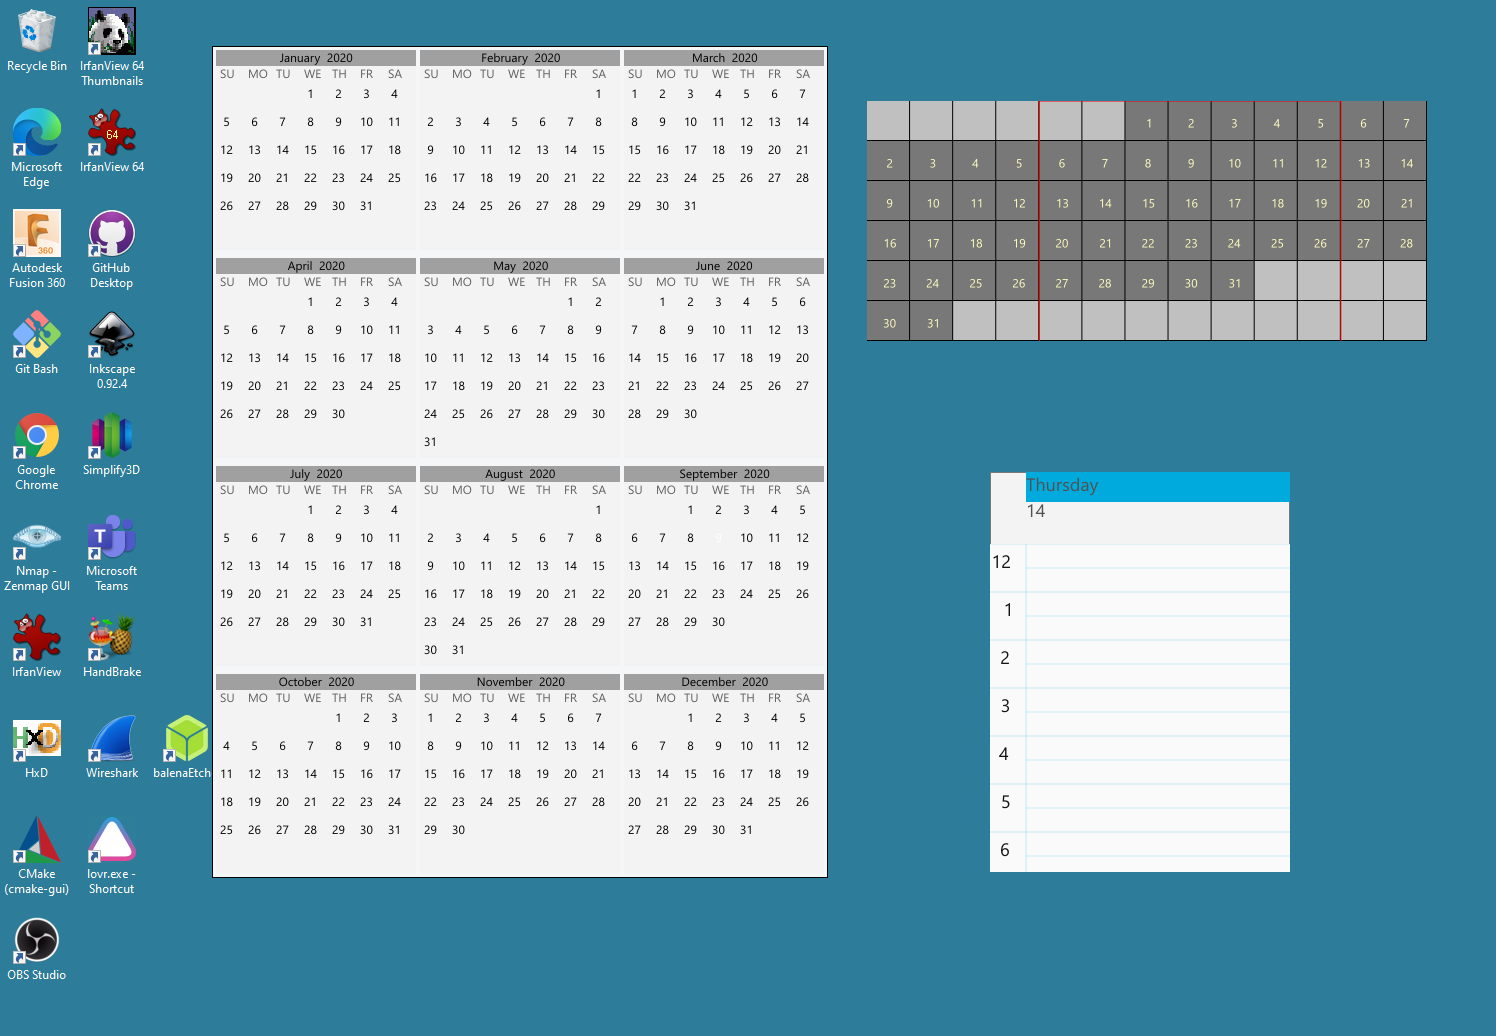
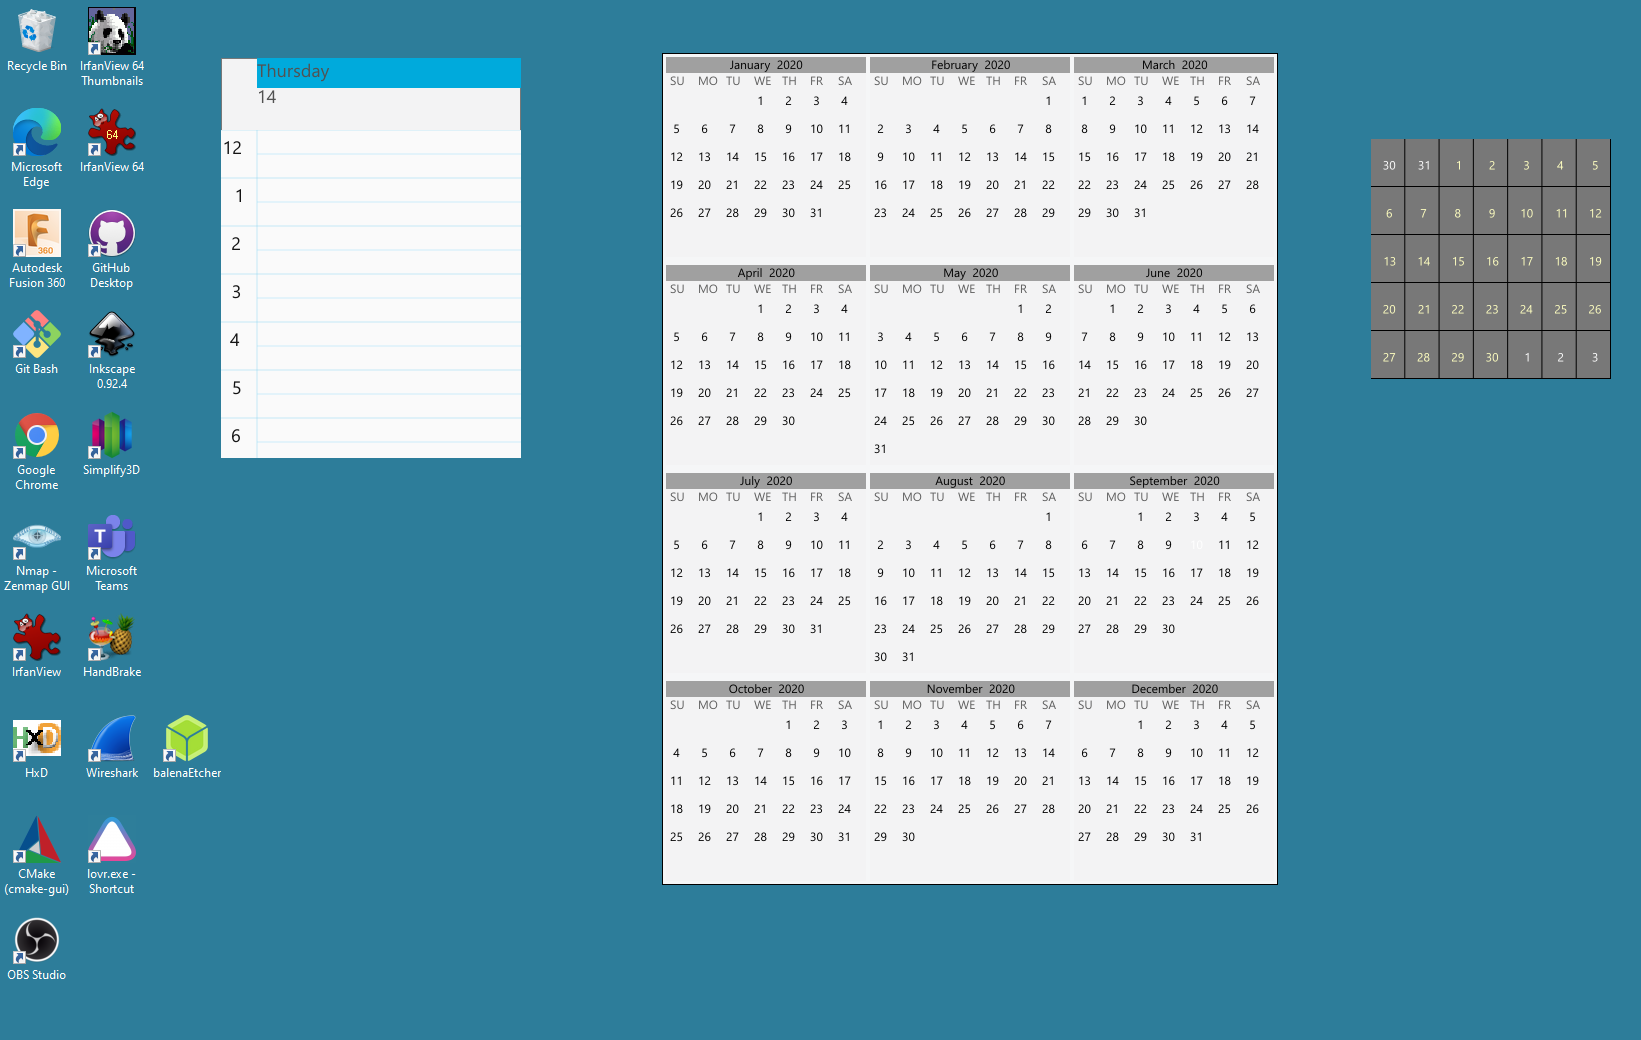
make sliding month calendar

diff --git a/projects/calendar/perpetualcalendar.h b/projects/calendar/perpetualcalendar.h
@@ -5,9 +5,16 @@
 
 class PerpetualCalendar : public Graphic
 {
+	Calendar::USACalendar fPreviousCalendar;
 	Calendar::USACalendar fCalendar;
+	Calendar::USACalendar fNextCalendar;
+
 	int fMonth;
-	int fDayCode;	// 0 - x
+	int fNextMonth;
+	int fPreviousMonth;
+
+
+
 
 	int fDayCells[6][13]= {
 			{ 0, 0, 0, 0, 0, 0, 1, 2, 3, 4, 5, 6, 7},
@@ -25,27 +32,38 @@ class PerpetualCalendar : public Graphic
 public:
 	PerpetualCalendar(int year, int month, double w, double h)
 		: Graphic(0,0,w,h),
-		fCalendar(year)
+		fCalendar(year),
+		fPreviousCalendar(year),
+		fNextCalendar(year)
 	{
 		cellWidth = w / 13;
 		cellHeight = h / 6;
 
-		setMonth(month);
+		setDate(year, month);
 	}
 
 	// set month [1-12]
-	void setMonth(int month)
+	void setDate(int year, int month)
 	{
 		fMonth = month;
-		fDayCode = fCalendar.dayCodeForMonth(month);
+		fNextMonth = month + 1;
+		fPreviousMonth = month - 1;
 
-		std::cout << "day Code: " << fDayCode << std::endl;
+		if (fMonth == 1) {
+			fPreviousCalendar.setYear(year - 1);
+			fPreviousMonth = 12;
+		}
+
+		if (fMonth == 12) {
+			fNextCalendar.setYear(year + 1);
+			fNextMonth = 1;
+		}
+
 	}
 
 	void drawBackground(IGraphics* ctx)
 	{
 		// draw a black background rectangle to start
-
 		ctx->fill(0);
 		ctx->noStroke();
 		ctx->rect(0, 0, fFrame.w, fFrame.h);
@@ -58,15 +76,51 @@ public:
 		ctx->textAlign(ALIGNMENT::CENTER, ALIGNMENT::CENTER);
 		ctx->noStroke();
 
-		for (int row = 0; row < 6; row++) {
-			for (int col = 0; col < 13; col++) {
+		int monthDayNumber = fCalendar.dayCodeForMonth(fMonth);
+		int daysInMonth = fCalendar.getDaysInMonth(fMonth);
+		int previousDaysInMonth = fPreviousCalendar.getDaysInMonth(fPreviousMonth);
+		int nextDaysInMonth = fNextCalendar.getDaysInMonth(fNextMonth);
+
+		for (int row = 0; row < 6; row++)
+		{
+			for (int col = 0; col < 13; col++)
+			{
+				int date = fDayCells[row][col];
+				
+				// deal with previous month
+				if (date == 0) {
+					date = previousDaysInMonth - monthDayNumber ;
+				}
+
+				// Draw the date
+				auto cellX = (col * cellWidth);
+				auto cellY = (row * cellHeight);
+
+				auto toffsetx = cellGap + ((cellWidth / 2) + (col * cellWidth));
+				auto toffsety = cellGap + ((cellHeight / 2) + (row * cellHeight));
+
+				// Put number in cell
+				ctx->fill(0xFF, 120);
+				ctx->rect(cellX, cellY, cellWidth - (cellGap * 2), cellHeight - (cellGap * 2));
+				ctx->fill(0xff, 0xff, 0xc0);
+				ctx->text(std::to_string(date).c_str(), toffsetx, toffsety);
+
+			}
+		}
+
+		/*
+		for (int row = 0; row < 6; row++) 
+		{
+			for (int col = 0; col < 13; col++) 
+			{
 				auto cellX = (col * cellWidth);
 				auto cellY = (row * cellHeight);
 
 				auto toffsetx = cellGap + ((cellWidth/2) + (col* cellWidth));
 				auto toffsety = cellGap + ((cellHeight / 2) + (row * cellHeight));
 
-				if (fDayCells[row][col] > 0) {
+				auto cellDay = fDayCells[row][col];
+				if ((cellDay > 0) && (cellDay <= daysInMonth)) {
 					// Put number in cell
 					ctx->fill(0xFF,120);
 					ctx->rect(cellX, cellY, cellWidth- (cellGap * 2), cellHeight-(cellGap*2));
@@ -79,11 +133,14 @@ public:
 				}
 			}
 		}
+*/
 	}
 
 	void drawForeground(IGraphics* ctx)
 	{
-		double dayOffset = (6 - fDayCode) * cellWidth;
+		// Draw the rectangle that represents 
+		// the current month
+		double dayOffset = (6.0 - fCalendar.dayCodeForMonth(fMonth) * cellWidth);
 
 		ctx->push();
 		ctx->noFill();

diff --git a/projects/calendar/slidingmonth.h b/projects/calendar/slidingmonth.h
@@ -1,0 +1,149 @@
+#pragma once
+
+#include "graphic.hpp"
+#include "calendar.hpp"
+
+/*
+	Draw a view of a month with the previous and next month's
+	numbers filling in the grid where available.
+*/
+class SlidingMonth : public Graphic
+{
+	Calendar::USACalendar fPreviousCalendar;
+	Calendar::USACalendar fCalendar;
+	Calendar::USACalendar fNextCalendar;
+
+	int fMonth;
+	int fNextMonth;
+	int fPreviousMonth;
+
+
+
+
+	int fDayCells[6][13] = {
+			{ 0, 0, 0, 0, 0, 0, 1, 2, 3, 4, 5, 6, 7},
+			{ 2, 3, 4, 5, 6, 7, 8, 9,10,11,12,13,14},
+			{ 9,10,11,12,13,14,15,16,17,18,19,20,21},
+			{16,17,18,19,20,21,22,23,24,25,26,27,28},
+			{23,24,25,26,27,28,29,30,31, 0, 0, 0, 0},
+			{30,31, 0, 0, 0, 0, 0, 0, 0, 0, 0, 0, 0}
+	};
+
+	double cellWidth;
+	double cellHeight;
+	double cellGap = 0.5;
+
+public:
+	SlidingMonth(int year, int month, double w, double h)
+		: Graphic(0, 0, w, h),
+		fCalendar(year),
+		fPreviousCalendar(year),
+		fNextCalendar(year)
+	{
+		cellWidth = w / 7;
+		cellHeight = h / 5;
+
+		setDate(year, month);
+	}
+
+	// set month [1-12]
+	void setDate(int year, int month)
+	{
+		fMonth = month;
+		fNextMonth = month + 1;
+		fPreviousMonth = month - 1;
+
+		if (fMonth == 1) {
+			fPreviousCalendar.setYear(year - 1);
+			fPreviousMonth = 12;
+		}
+
+		if (fMonth == 12) {
+			fNextCalendar.setYear(year + 1);
+			fNextMonth = 1;
+		}
+
+	}
+
+	void drawBackground(IGraphics* ctx)
+	{
+		// draw a black background rectangle to start
+		ctx->fill(0);
+		ctx->noStroke();
+		ctx->rect(0, 0, fFrame.w, fFrame.h);
+	}
+
+	void drawDate(IGraphics* ctx, int row, int col, int date, const Pixel &c)
+	{
+		// draw the date
+		auto cellX = (col * cellWidth);
+		auto cellY = (row * cellHeight);
+
+		auto toffsetx = cellGap + ((cellWidth / 2) + (col * cellWidth));
+		auto toffsety = cellGap + ((cellHeight / 2) + (row * cellHeight));
+
+		// Put number in cell
+		ctx->fill(0xFF, 120);
+		ctx->rect(cellX, cellY, cellWidth - (cellGap * 2), cellHeight - (cellGap * 2));
+		ctx->fill(c);
+		ctx->text(std::to_string(date).c_str(), toffsetx, toffsety);
+	}
+
+
+	void drawSelf(IGraphics* ctx)
+	{
+		// draw numeric squares
+		ctx->textSize(12);
+		ctx->textAlign(ALIGNMENT::CENTER, ALIGNMENT::CENTER);
+		ctx->noStroke();
+
+		int monthDayNumber = fCalendar.dayCodeForMonth(fMonth);
+		int daysInMonth = fCalendar.getDaysInMonth(fMonth);
+		int previousDaysInMonth = fPreviousCalendar.getDaysInMonth(fPreviousMonth);
+		int nextDaysInMonth = fNextCalendar.getDaysInMonth(fNextMonth);
+
+
+		int row = 0;
+		int col = 0;
+
+		// draw pre-month
+		for (col = 0; col < monthDayNumber;)
+		{
+			auto adate = previousDaysInMonth - monthDayNumber + col + 1;
+			drawDate(ctx, row, col, adate, color(255));
+
+			col = col + 1;
+			if (col >= 7)
+			{
+				col = 0;
+				row = row + 1;
+			}
+		}
+
+		// draw core date numbers
+		for (int date = 1; date <= daysInMonth; date++)
+		{
+			drawDate(ctx, row, col, date, color(0xff, 0xff, 0xc0));
+
+			// increment row and column
+			col = col + 1;
+			if (col >= 7)
+			{
+				col = 0;
+				row = row + 1;
+			}
+		}
+
+
+		// draw post-month
+		if (col > 0) {
+			int date = 1;
+			while (col < 7) {
+				drawDate(ctx, row, col, date, color(255));
+				col = col + 1;
+				date = date + 1;
+			}
+		}
+	}
+
+};

diff --git a/projects/calendar/display.cpp b/projects/calendar/display.cpp
@@ -2,7 +2,7 @@
 #include "MonthTile.hpp"
 #include "DayTile.hpp"
 #include "yearofmonths.h"
-#include "perpetualcalendar.h"
+#include "slidingmonth.h"
 
 #include <cstdio>
 #include <vector>
@@ -35,7 +35,7 @@ void setup()
 	yomWin->addChild(yom);
 
 	// Setup perpetual calendar
-	auto pc = std::make_shared<PerpetualCalendar>(2020, 9, 560, 240);
+	auto pc = std::make_shared<SlidingMonth>(2020, 9, 240, 240);
 	fr = pc->getFrame();
 	auto pcWin = window(0, 0, fr.w, fr.h);
 	pcWin->addChild(pc);
